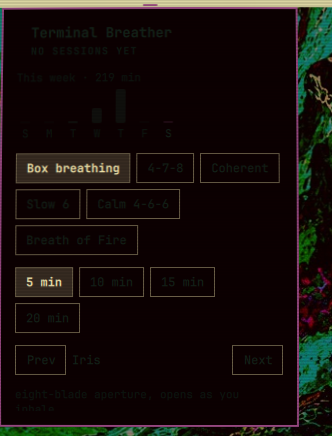
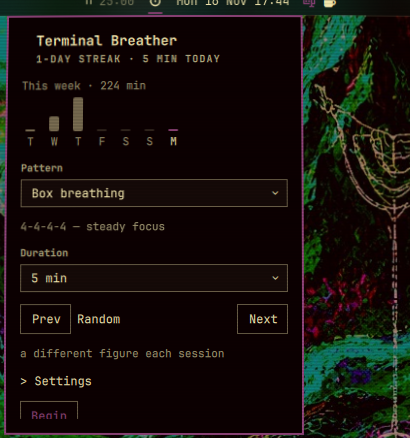
Pattern and duration pickers become shell Dropdowns (0.8.0)
Replace the pattern and duration button rows in the panel with the
shell's themed Dropdown (qs.Ui). Same options and same state as before:
patterns from patterns.json plus the built-ins, minutes 5/10/15/20, and
choosing writes back to shell.json via choose() so the pick stays the
default from then on.

- New ZenModel helpers patternOptions/minuteOptions build the
  value/label pairs the Dropdown renders; the harness covers them.
- The old buttons' pattern tooltip survives as a hint line under the
  pattern dropdown (for example "4-4-4-4 - steady focus").
- PanelKeyCatcher stays blocked while a popup is open, so j/k and the
  arrow keys drive the popup's own list instead of the panel shortcuts,
  the pattern the shell's dev gallery documents for Dropdown.
- choose() syncs both dropdown values explicitly: Dropdown.selectCurrent
  assigns its own value, which breaks the value binding, so without the
  sync a later choose() from the 1-9 shortcuts would leave a dropdown
  showing the old choice.
- 1-9 shortcuts, Enter to begin, Esc to close, the figure picker, the
  Settings section, and the tb CLI are unchanged. Version 0.8.0;
  screenshots/panel.png recaptured.

diff --git a/BarWidget.qml b/BarWidget.qml
@@ -36,6 +36,10 @@ Panel {
 
   readonly property var patternKeys: resolvedPatterns.order
   readonly property var minuteChoices: [5, 10, 15, 20]
+  // { value, label } pairs for the shell Dropdowns below, rebuilt whenever
+  // the resolved patterns (or the minute list) change.
+  readonly property var patternOptions: Model.patternOptions(root.resolvedPatterns)
+  readonly property var minuteOptions: Model.minuteOptions(root.minuteChoices)
 
   // Settings section (collapsible, panel-local state).
   property bool settingsExpanded: false
@@ -46,6 +50,10 @@ Panel {
   // True while the log-path field has focus; the key catcher stays blocked
   // so typing/Enter/Escape go to the editor, not to panel actions.
   readonly property bool editorActive: logPathField.activeFocus
+  // True while either dropdown's popup is open; the key catcher stays
+  // blocked so j/k and arrows drive the popup's own list, not the panel
+  // shortcuts — the pattern the shell's dev gallery documents for Dropdown.
+  readonly property bool dropdownOpen: patternDropdown.popupOpen || minutesDropdown.popupOpen
 
   function settingValue(key, fallback) {
     if (root.settings && root.settings[key] !== undefined)
@@ -75,6 +83,13 @@ Panel {
   function choose(patternKey, minutes) {
     chosenPattern = patternKey
     chosenMinutes = minutes
+    // Keep the dropdowns showing the choice. Dropdown.selectCurrent()
+    // assigns its own `value`, which breaks the `value:` binding, so a
+    // later choose() from a keyboard shortcut (1-9) would otherwise
+    // leave the dropdown showing the old value. Every change to the
+    // choice goes through here, so syncing here covers all paths.
+    patternDropdown.value = patternKey
+    minutesDropdown.value = String(minutes)
     // Written back to shell.json so the choice is the default from then on,
     // same pattern as the clock's format cycling.
     var entry = { id: root.moduleName }
@@ -222,7 +237,7 @@ Panel {
     PanelKeyCatcher {
       id: keyCatcher
       anchors.fill: parent
-      blocked: root.editorActive
+      blocked: root.editorActive || root.dropdownOpen
 
       onCloseRequested: root.close()
       onReturnRequested: root.startSession(root.chosenPattern, root.chosenMinutes)
@@ -343,44 +358,43 @@ Panel {
           }
         }
 
-        Flow {
+        // Pattern and duration are shell Dropdowns (qs.Ui): the trigger
+        // shows the current choice, the popup lists every option. Same
+        // options as the old button rows — patterns from patterns.json
+        // plus the built-ins, minutes 5/10/15/20 — and the same state:
+        // choosing writes back to shell.json via choose(), so the pick
+        // is the default from then on. The hint line keeps the old
+        // buttons' tooltip (e.g. "4-4-4-4 — steady focus").
+        Dropdown {
+          id: patternDropdown
           width: parent.width
-          spacing: Style.space(6)
-
-          Repeater {
-            model: root.patternKeys
-
-            Button {
-              required property string modelData
-              readonly property var pat: Model.pattern(modelData, root.resolvedPatterns.map)
-              text: pat.name
-              tooltipText: pat.hint
-              bordered: true
-              selected: root.chosenPattern === modelData
-              foreground: root.foreground
-              fontFamily: root.fontFamily
-              onClicked: root.choose(modelData, root.chosenMinutes)
-            }
-          }
+          label: "Pattern"
+          fontFamily: root.fontFamily
+          foreground: root.foreground
+          options: root.patternOptions
+          value: root.chosenPattern
+          onChanged: function(v) { root.choose(v, root.chosenMinutes) }
         }
 
-        Flow {
+        Text {
           width: parent.width
-          spacing: Style.space(6)
+          textFormat: Text.PlainText
+          wrapMode: Text.WordWrap
+          text: Model.pattern(root.chosenPattern, root.resolvedPatterns.map).hint
+          color: root.dim
+          font.family: root.fontFamily
+          font.pixelSize: Style.font.bodySmall
+        }
 
-          Repeater {
-            model: root.minuteChoices
-
-            Button {
-              required property int modelData
-              text: modelData + " min"
-              bordered: true
-              selected: root.chosenMinutes === modelData
-              foreground: root.foreground
-              fontFamily: root.fontFamily
-              onClicked: root.choose(root.chosenPattern, modelData)
-            }
-          }
+        Dropdown {
+          id: minutesDropdown
+          width: parent.width
+          label: "Duration"
+          fontFamily: root.fontFamily
+          foreground: root.foreground
+          options: root.minuteOptions
+          value: String(root.chosenMinutes)
+          onChanged: function(v) { root.choose(root.chosenPattern, Number(v)) }
         }
 
         RowLayout {

diff --git a/test/ZenModel.test.js b/test/ZenModel.test.js
@@ -12,7 +12,7 @@ const src = fs
   .replace(/^\.pragma library\n/, "");
 const factory = new Function(
   src +
-    "\nreturn { PATTERNS, PATTERN_ORDER, pattern, cycleSeconds, breathAt, rampScale, rampBaseTime, parseCustomPatterns, resolvePatterns, parseStats, addMinutes, streakDays, weekSeries, formatRemaining, MEDITATION_LOG_HEADER, meditationLogPath, normalizeLogPath, logRow, appendLogCommand };"
+    "\nreturn { PATTERNS, PATTERN_ORDER, pattern, cycleSeconds, breathAt, rampScale, rampBaseTime, parseCustomPatterns, resolvePatterns, patternOptions, minuteOptions, parseStats, addMinutes, streakDays, weekSeries, formatRemaining, MEDITATION_LOG_HEADER, meditationLogPath, normalizeLogPath, logRow, appendLogCommand };"
 );
 const M = factory();
 
@@ -155,6 +155,36 @@ check("bad ramp dropped, pattern kept", rampBad.length === 2 && rampBad[0].ramp 
 check(
   "good ramp copied clean",
   JSON.stringify(rampBad[1].ramp) === '{"from":2,"to":0.5,"overSecs":60}'
+);
+
+// --- Dropdown options (panel pickers) ---
+check(
+  "patternOptions built-ins",
+  JSON.stringify(M.patternOptions(M.resolvePatterns(""))) ===
+    '[{"value":"box","label":"Box breathing"},{"value":"478","label":"4-7-8"},{"value":"coherent","label":"Coherent"}]'
+);
+check(
+  "patternOptions include customs in file order",
+  JSON.stringify(M.patternOptions(r1).map((o) => o.value)) ===
+    '["box","478","coherent","slow-6","calm-466","breath-of-fire"]'
+);
+check(
+  "patternOptions custom label",
+  M.patternOptions(r1)[3].label === "Slow 6"
+);
+check(
+  "patternOptions default to built-ins without resolved",
+  M.patternOptions().length === 3 && M.patternOptions()[0].value === "box"
+);
+check(
+  "minuteOptions default",
+  JSON.stringify(M.minuteOptions()) ===
+    '[{"value":"5","label":"5 min"},{"value":"10","label":"10 min"},{"value":"15","label":"15 min"},{"value":"20","label":"20 min"}]'
+);
+check(
+  "minuteOptions values are strings, labels carry min",
+  M.minuteOptions([1, 30])[1].value === "30" &&
+    M.minuteOptions([1, 30])[1].label === "30 min"
 );
 
 // --- Stats helpers untouched (regression) ---

diff --git a/ZenModel.js b/ZenModel.js
@@ -120,6 +120,30 @@ function resolvePatterns(customRaw) {
   return { map: map, order: order, customs: customs }
 }
 
+// Option lists for the panel dropdowns: { value, label } pairs the shell
+// Dropdown renders (label is what shows, value is what is emitted).
+// Pattern labels come from the resolved map, so a custom pattern shows its
+// own name; minutes render as "5 min". The dropdown's value is the key
+// (pattern) or the minutes as a string, matching what choose() stores.
+function patternOptions(resolved) {
+  var out = []
+  var order = (resolved && resolved.order) || PATTERN_ORDER
+  var map = (resolved && resolved.map) || PATTERNS
+  for (var i = 0; i < order.length; i++) {
+    var p = pattern(order[i], map)
+    out.push({ value: String(order[i]), label: p.name })
+  }
+  return out
+}
+
+function minuteOptions(choices) {
+  var out = []
+  var list = choices || [5, 10, 15, 20]
+  for (var i = 0; i < list.length; i++)
+    out.push({ value: String(list[i]), label: list[i] + " min" })
+  return out
+}
+
 // ---- Tempo ramp. A pattern may carry an optional ramp that scales every
 // phase duration over the first `overSecs` of a session:
 //   "ramp": {"from": 2, "to": 0.5, "overSecs": 60}
